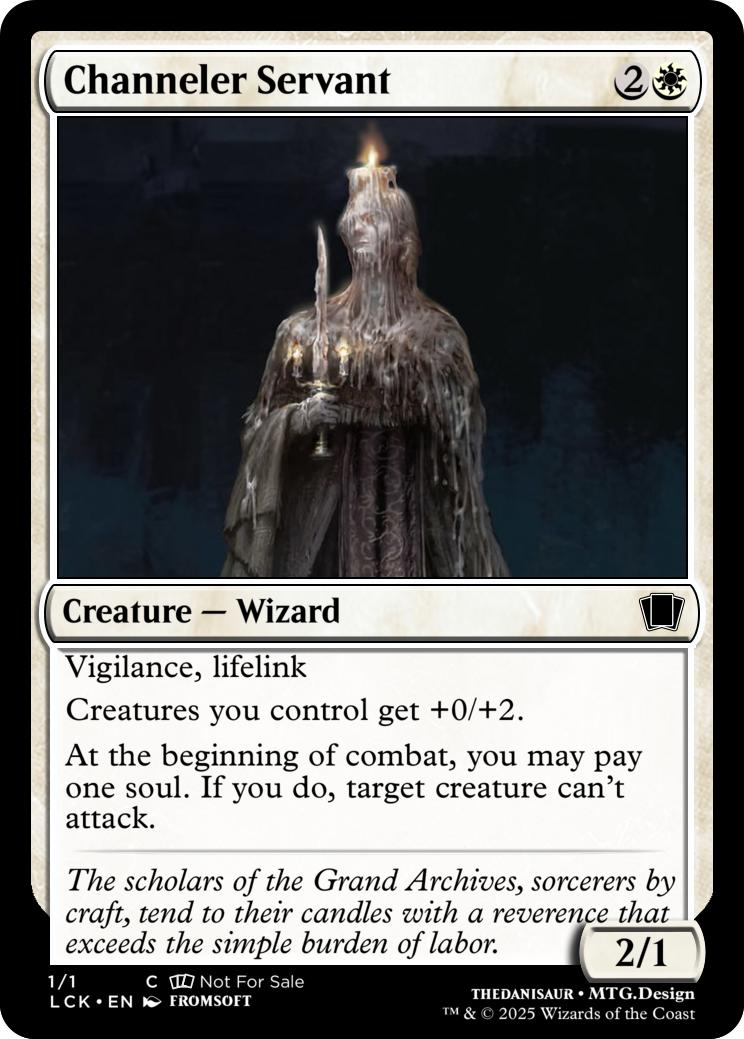
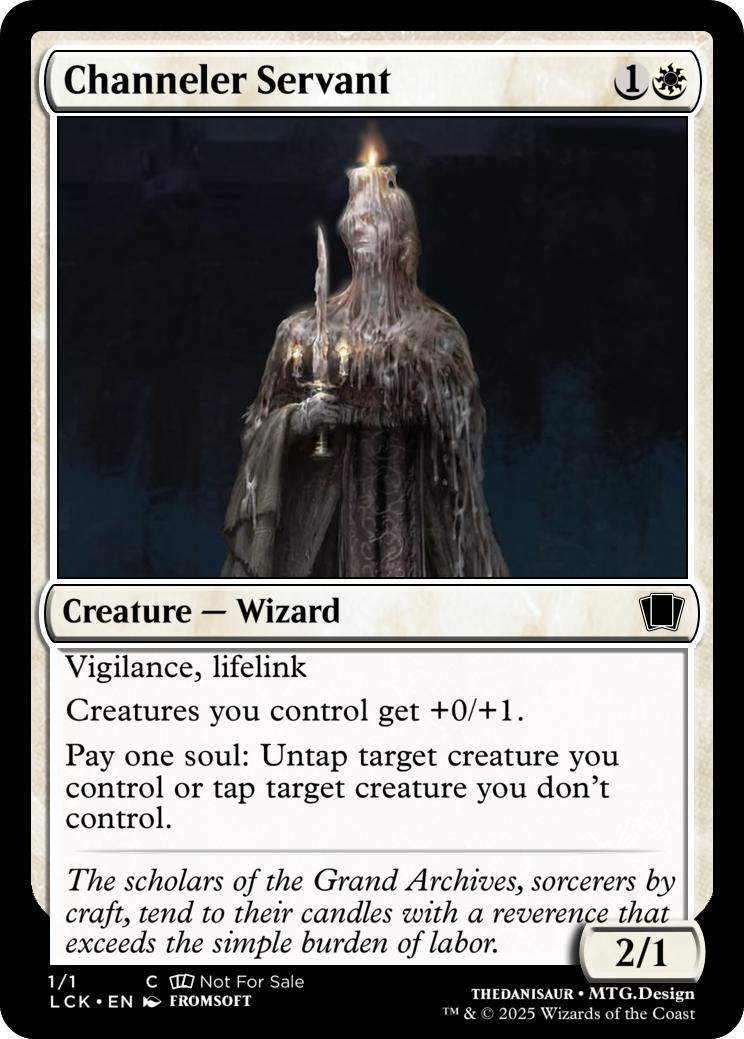
Fix abyss jackal and channeler servant

Changed region(s): [[0.0927, 0.6776, 0.8656, 0.8008], [0.0927, 0.8932, 0.6492, 0.924], [0.8347, 0.0616, 0.8656, 0.0924]]

diff --git a/lck.md b/lck.md
@@ -468,8 +468,8 @@
         <strong>Watchers Of The Belfry</strong>
     </td>
     <td align="center">
-        <img src="./cards/lck/black/abyss_jackel.jpeg" alt="Abyss Jackel" width="400"/><br/>
-        <strong>Abyss Jackel</strong>
+        <img src="./cards/lck/black/abyss_jackal.jpeg" alt="Abyss Jackal" width="400"/><br/>
+        <strong>Abyss Jackal</strong>
     </td>
 </tr>
 <tr>
